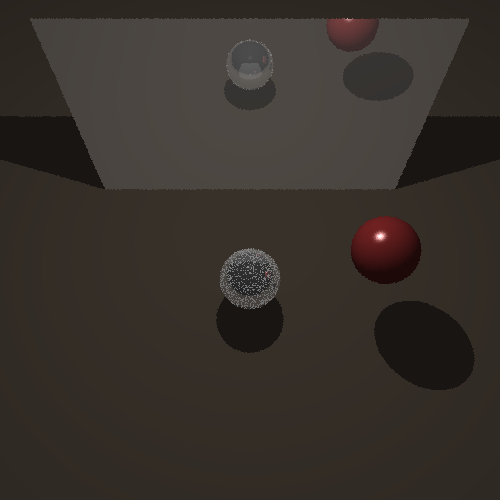
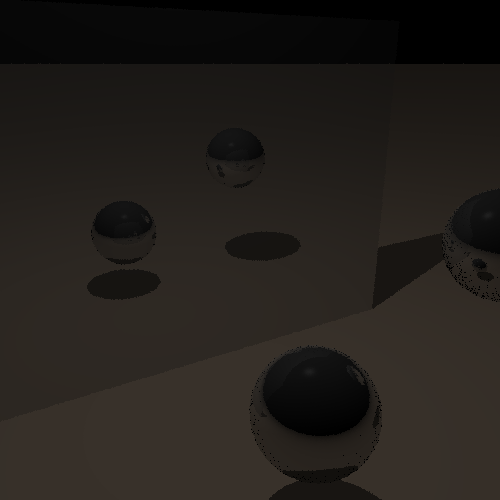
reflections

diff --git a/src/Materials/Reflective.cpp b/src/Materials/Reflective.cpp
@@ -22,9 +22,7 @@ namespace RT
 		Color fr = reflectiveBRDF.sampleF(ei, wi, wo);
 		Ray reflectedRay(ei.rayInt.worldCoords, wi);
 
-		Color out;
-		world.traceRayColor(out, reflectedRay, ei.depth + 1);
-		color += fr * out * (ei.rayInt.normal.v3Dot(wi));
+		color += fr * world.traceRayColor(reflectedRay, ei.depth + 1) * (ei.rayInt.normal.v3Dot(wi));
 
 		return color;
 	}
@@ -38,9 +36,7 @@ namespace RT
 		Color fr = reflectiveBRDF.sampleF(ei, wi, wo);
 		Ray reflectedRay(ei.rayInt.worldCoords, wi);
 
-		Color out;
-		world.traceRayColor(out, reflectedRay, ei.depth + 1);
-		color += fr * out * (ei.rayInt.normal.v3Dot(wi));
+		color += fr * world.traceRayColor(reflectedRay, ei.depth + 1) * (ei.rayInt.normal.v3Dot(wi));
 
 		return color;
 	}

diff --git a/include/Camera.h b/include/Camera.h
@@ -62,9 +62,6 @@ namespace RT
 		// Gets the viewport.
 		Viewport getViewport()const;
 
-		// Sets the background color.
-		void setBackgroundColor(Color color);
-
 		// Renders a single pixel.
 		// @param row - The pixel's row.
 		// @param col - The pixel's column.
@@ -77,13 +74,15 @@ namespace RT
 	private:
 		void calculateBasis(const VML::VECTOR3F& eyePos, const VML::VECTOR3F& lookat, const VML::VECTOR3F& up);
 
+	public:
+		Color backgroundColor;
+
 	protected:
 		VML::Vector eye;
 		VML::Vector u, v, w;
 		F32 maxDepth;
 
 		Viewport vp;
-		Color backgroundColor;
 
 		friend class RenderingEngine;
 	};

diff --git a/include/World.h b/include/World.h
@@ -10,7 +10,7 @@ namespace RT
 	// Output of a ray trace intersection
 	struct ElementIntersection
 	{
-		ElementIntersection() : bHit(false) { }
+		ElementIntersection() : bHit(false), depth(0) { }
 
 		bool bHit;
 		PRenderable element;
@@ -38,7 +38,7 @@ namespace RT
 		void setCamera(PCamera camera);
 		PCamera getCamera();
 
-		bool traceRayColor(Color& out, const Ray& ray, I32 depth = 0);
+		Color traceRayColor(const Ray& ray, I32 depth = 0);
 
 		void traceRayIntersections(ElementIntersection& out, const Ray& ray)const;
 		void traceRayIntersections(bool& bHit, F32 d, const Ray& ray)const;

diff --git a/src/World/World.cpp b/src/World/World.cpp
@@ -43,13 +43,10 @@ namespace RT
 	}
 
 
-	bool World::traceRayColor(Color& out, const Ray& ray, I32 depth)
+	Color World::traceRayColor(const Ray& ray, I32 depth)
 	{
 		if (depth > 7)
-		{
-			out = Color();
-			return true;
-		}
+			return Color();
 
 		ElementIntersection hit;
 		traceRayIntersections(hit, ray);
@@ -57,12 +54,10 @@ namespace RT
 		if (hit.bHit)
 		{
 			hit.depth = depth;
-
-			out = hit.element->material->shade(hit, *this);
-			return true;
+			return hit.element->material->shade(hit, *this);
 		}
 
-		return false;
+		return camera->backgroundColor;
 	}
 
 

diff --git a/src/Cameras/OrthographicCamera.cpp b/src/Cameras/OrthographicCamera.cpp
@@ -26,11 +26,9 @@ namespace RT
 		Ray ray(eye + rayOriginWorld, forwardDirection);
 
 		Color color;
-		bool bHit = world.traceRayColor(color, ray);
-
-		if (!bHit)
-			color = backgroundColor;
-		color.a = 1.0f;
+		color = world.traceRayColor(ray);
+		color.a = 1.0f; 
+		color.Clamp();
 
 		return color;
 	}

diff --git a/src/Cameras/PinholeCamera.cpp b/src/Cameras/PinholeCamera.cpp
@@ -28,12 +28,9 @@ namespace RT
 		Ray ray(eye, rayDir);
 
 		Color color;
-		bool bHit = world.traceRayColor(color, ray);
+		color = world.traceRayColor(ray);
 		color.a = 1.0f;
 		color.Clamp();
-
-		if (!bHit)
-			color = backgroundColor;
 
 		return color;
 	}

diff --git a/src/BRDFs/PerfectSpecular.cpp b/src/BRDFs/PerfectSpecular.cpp
@@ -17,6 +17,6 @@ namespace RT
 		F32 nDOTwo = ei.rayInt.normal.v3Dot(wo);
 		wi = VML::Vector(wo).negate() + (ei.rayInt.normal * nDOTwo * 2.0f);
 
-		return (cr * kr / (ei.rayInt.normal.v3Dot(wi)));
+		return (cr * kr) / ei.rayInt.normal.v3Dot(wi);
 	}
 }

diff --git a/src/RenderingEngine/RenderingEngine.cpp b/src/RenderingEngine/RenderingEngine.cpp
@@ -42,7 +42,7 @@ namespace RT
 		
 		camera = world.getCamera();
 		camera->setViewport(vp);
-		camera->setBackgroundColor(bkgColor);
+		camera->backgroundColor = bkgColor;
 	}
 
 	void RenderingEngine::render()

diff --git a/src/Cameras/Camera.cpp b/src/Cameras/Camera.cpp
@@ -37,11 +37,6 @@ namespace RT
 		return vp;
 	}
 
-	void Camera::setBackgroundColor(Color color)
-	{
-		this->backgroundColor = color;
-	}
-
 	VML::Vector Camera::getPosition()const
 	{
 		return eye;
